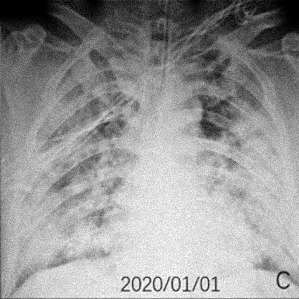
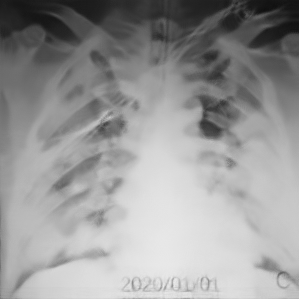
denoising new treshhold

diff --git a/main.py b/main.py
@@ -44,26 +44,9 @@ def main():
 
 
     now = time.time()
-    res = block_matching(image_matrix_noisy, threshold = 15, block_size=20, window_size=60)
+    res = block_matching(image_matrix_noisy, threshold = 70, block_size=8, window_size=30)
 
     print(f"Block Matching took: {time.time() - now:.2f}s")
-
-    # --- Початок візуалізації ---
-    num_groups_to_show = 3 # Кількість груп для перевірки
-    patches_per_group = 5  # Скільки патчів з кожної групи показати
-
-    # for i, group in enumerate(res[:num_groups_to_show]):
-    #     K = min(len(group), patches_per_group)
-    #     fig, axes = plt.subplots(1, K, figsize=(K * 2, 2))
-    #     if K == 1: axes = [axes] # обробка випадку з 1 патчем
-        
-    #     for j in range(K):
-    #         axes[j].imshow(group[j], cmap='gray')
-    #         axes[j].axis('off')
-            
-    #     fig.suptitle(f"Group {i+1}")
-    #     plt.show()
-    # --- Кінець візуалізації ---
 
     print("Starting SVD Denoising...")
     svd_start = time.time()
@@ -72,7 +55,7 @@ def main():
 
     print(f"SVD Denoising took: {time.time() - svd_start:.2f}s")
 
-    clean_image = aggregate_patches(res_clean, image_matrix.shape, 20)
+    clean_image = aggregate_patches(res_clean, image_matrix.shape, 8)
     clean_image = np.clip(clean_image, 0, 255).astype(np.uint8)
     Image.fromarray(clean_image).save("denoised_result.png")
     print("Saved to denoised_result.png")

diff --git a/denoising.py b/denoising.py
@@ -10,13 +10,26 @@ def denoising(res:  np.ndarray[tuple[int, int], np.dtype[np.object_]], sigma): #
         for j in range(res.shape[1]):
             M = res[i, j]
             U, Sigma, Vt = np.linalg.svd(M, full_matrices=False) # це якщо модна з бібліотеки взяти 
+            # n = max(M.shape)
+            # noise_tresh = sigma*np.sqrt(2*np.log(n))
 
-            n = max(M.shape)
-            noise_tresh = Sigma*np.sqrt(2*np.log(n))
+            # noise_tresh*= 2.5
 
-            noise_tresh*= 2.5
+            # Sigma[Sigma < noise_tresh] = 0
 
-            Sigma[Sigma < noise_tresh] = 0
+            N_patches = M.shape[0]
+            Patch_size_squared = M.shape[1]
+            
+            thresh = sigma * np.sqrt(max(N_patches, Patch_size_squared))
+            
+            safe_coefficient = 10
+            thresh *= safe_coefficient
+
+            safe_indices = 1
+            
+            for idx in range(safe_indices, len(Sigma)):
+                if Sigma[idx] < thresh:
+                    Sigma[idx] = 0
 
             res_clean[i, j] = (U @ np.diag(Sigma)) @ Vt
 
